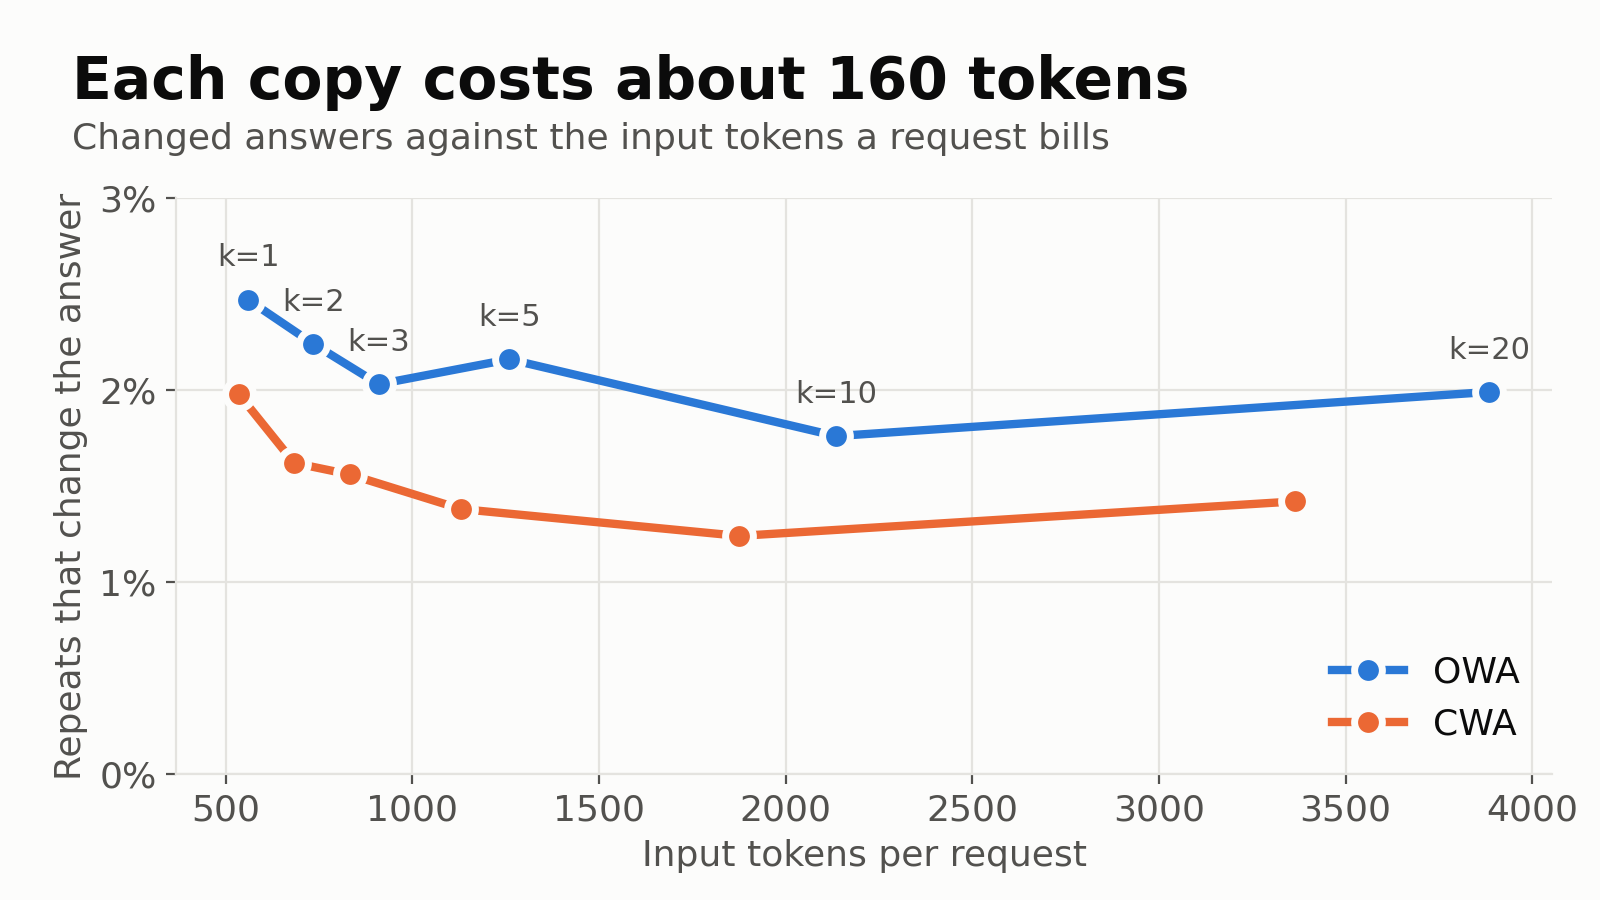
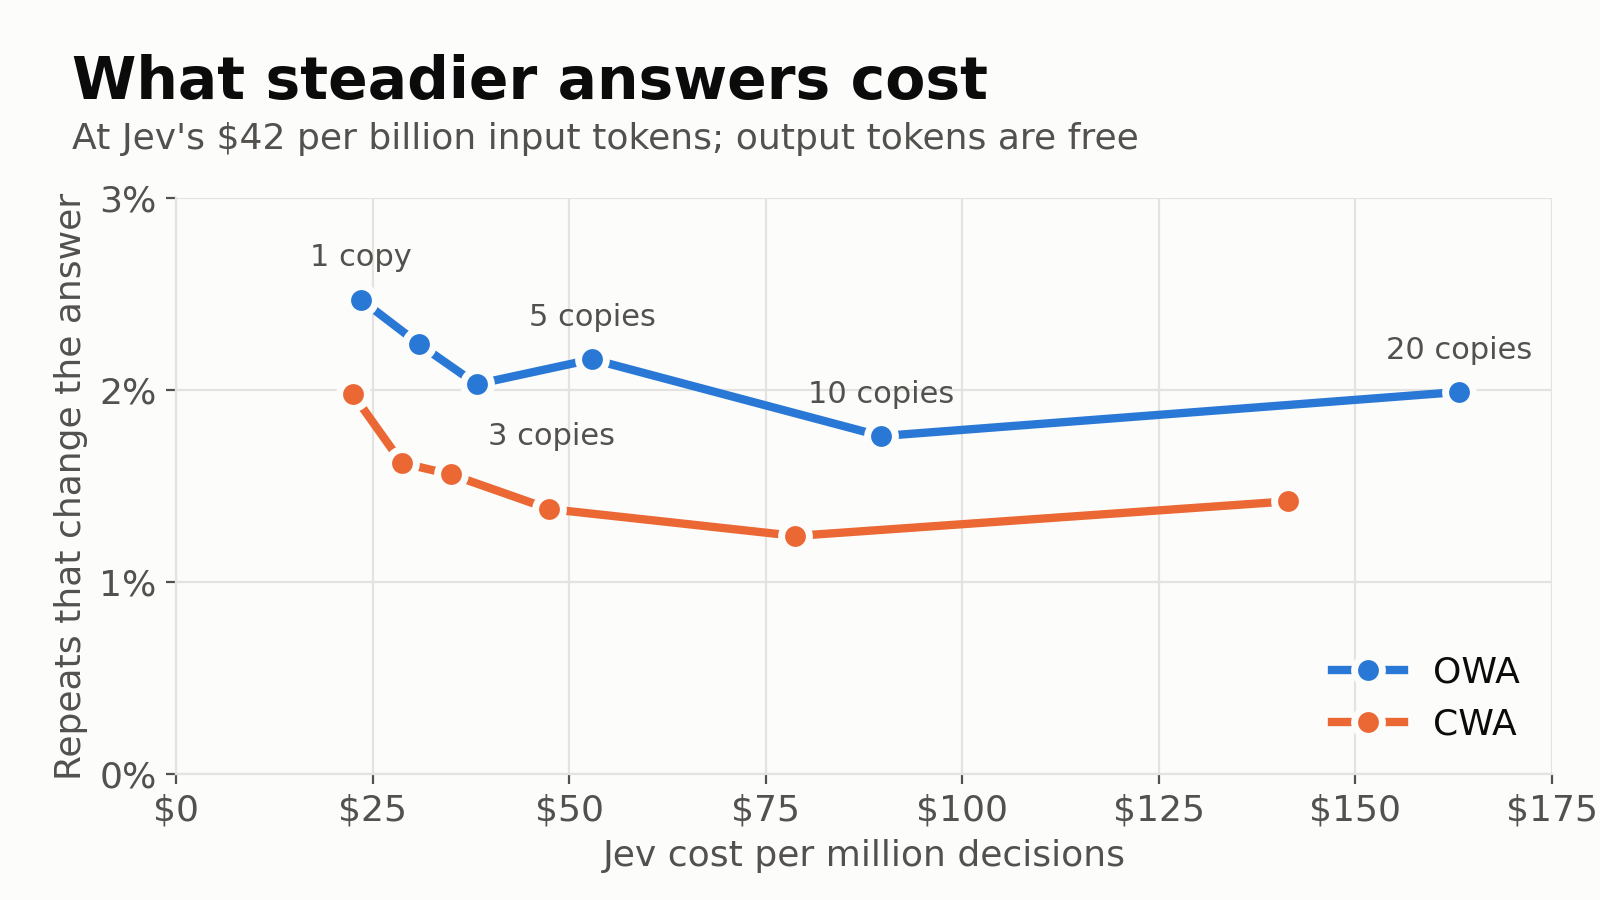
feat: plot article cost chart in dollars per million decisions

diff --git a/scripts/blog_figures.py b/scripts/blog_figures.py
@@ -133,23 +133,33 @@ def close_calls():
     save(fig, "jev-pooled-close-calls.png")
 
 
+USD_PER_INPUT_TOKEN = 42 / 1e9   # TypeSafe's published Jev price; output tokens are free
+
+
 def cost():
     fig, ax = frame()
     for task, (label, _) in TASKS.items():
         rows, spend = rows_by_k(task), rows_by_k(task, "stability_cost")
-        x = [spend[k]["input_tokens_mean"] for k in KS]
+        x = [spend[k]["input_tokens_mean"] * USD_PER_INPUT_TOKEN * 1e6 for k in KS]
         y = [100 * rows[k]["pair_flip_rate"] for k in KS]
         ax.plot(x, y, color=SERIES[label], lw=3, marker="o", ms=10, mec=SURFACE, mew=2.5, label=label)
         if label == "OWA":
             for k, xi, yi in zip(KS, x, y):
-                ax.annotate(f"k={k}", (xi, yi), xytext=(0, 12), textcoords="offset points", ha="center",
+                if k == 2:
+                    continue
+                below = k == 3
+                ax.annotate(f"{k} {'copy' if k == 1 else 'copies'}", (xi, yi), xytext=(4 if below else 0,
+                            -22 if below else 12), textcoords="offset points", ha="left" if below else "center",
                             color=INK_2, fontsize=11)
+    ax.set_xlim(0, 175)
+    ax.set_xticks([0, 25, 50, 75, 100, 125, 150, 175], ["$0", "$25", "$50", "$75", "$100", "$125", "$150", "$175"])
     ax.set_ylim(0, 3.0)
     ax.set_yticks([0, 1, 2, 3], ["0%", "1%", "2%", "3%"])
-    ax.set_xlabel("Input tokens per request")
+    ax.set_xlabel("Jev cost per million decisions")
     ax.set_ylabel("Repeats that change the answer")
     ax.legend(loc="lower right")
-    heading(fig, "Each copy costs about 160 tokens", "Changed answers against the input tokens a request bills")
+    heading(fig, "What steadier answers cost",
+            "At Jev's $42 per billion input tokens; output tokens are free")
     save(fig, "jev-pooled-cost.png")
 
 
